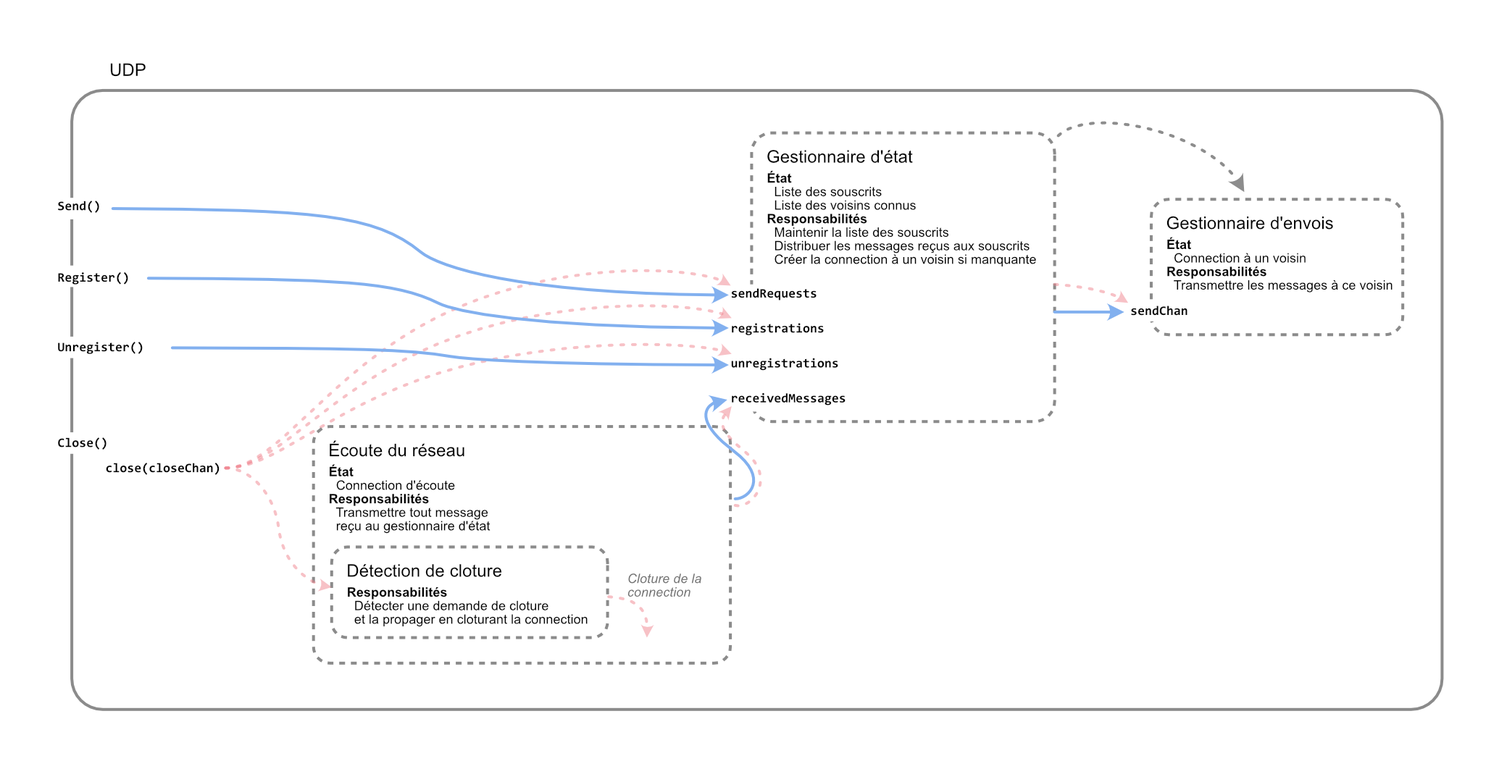
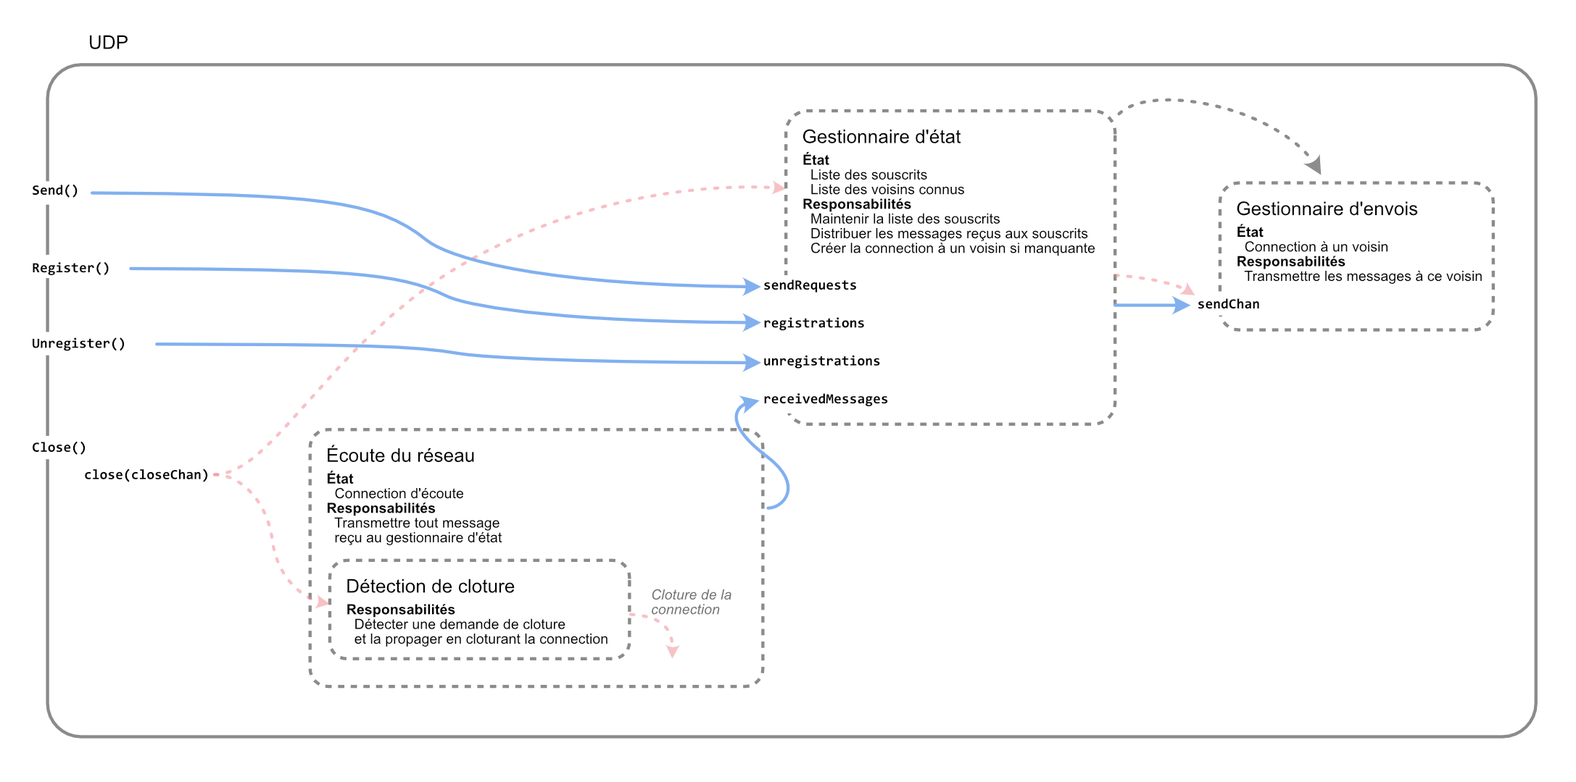
Improve udp design spec

diff --git a/labos/design-specs/1-udp.html b/labos/design-specs/1-udp.html
@@ -58,8 +58,8 @@ packages définis dans <code>internal</code>.</p>
 <ul>
 <li><code>/cmd/</code> contient les main packages, actuellement
 uniquement <code>server</code></li>
-<li><code>/interna/</code> contient les packages utilitaires utilisés
-par l’exécutable <code>server</code>.
+<li><code>/internal/</code> contient les packages utilisés par
+l’exécutable <code>server</code>.
 <ul>
 <li><code>/internal/transport/</code> abstrait la couche réseau en un
 API simple</li>
@@ -74,8 +74,8 @@ variées.</li>
 </ul>
 <h2 id="architecture-en-couches">Architecture en couches</h2>
 <p>Dans un soucis de séparation des préoccupations, ainsi que pour
-faciliter l’extension dans le futur, nous choisissons une achitecture en
-couches, dont il en existe pour l’instant deux : Transport et
+faciliter l’extension dans le futur, nous choisissons une architecture
+en couches, dont il en existe pour l’instant deux : Transport et
 Server.</p>
 <h3 id="transport">Transport</h3>
 <p>La couche <strong>transport</strong> occulte la complexité du réseau
@@ -87,47 +87,99 @@ réseau.</p>
 <h4 id="abstraction">Abstraction</h4>
 <p>L’interface <code>NetworkInterface</code> définit tout objet capable
 d’envoyer et recevoir des octets de la part de processus identifiés par
-une adresse IP. Nous choisissons de travailler avec des octets pour
-rendre cette couche indépendante de son contexte d’utilisation. Ses
-méthodes sont les suivantes : -
-<code>Send(addr Address, payload []byte) error</code>. -
-<code>RegisterHandler(MessageHandler) HandlerId</code> - la réception de
-messages utilise un pattern de souscription : un
-<code>MessageHandler</code> est tout objet offrant une méthode
-<code>HandleNetworkMessage(*Message) (wasHanlded bool)</code> qui doit
-retourner un booléen indiquant si le message reçu a été traité ou non.
-La <code>NetworkInterface</code> est responsable de partager chaque
-message reçu à tous les souscrits à travers cette méthode jusqu’à ce que
-l’un d’eux affirme l’avoir traité. Elle peut supposer que tout message
-n’appartient qu’à un seul souscrit. -
-<code>UnregisterHandler(HandlerId)</code> permet de résilier une
-souscription à l’aide de l’identifiant obtenu à la souscription. -
-<code>Close()</code> ferme toute connexion et goroutine en cours.</p>
+une adresse IP. L’utilisation d’octets pour rendre cette couche
+indépendante de son contexte d’utilisation.</p>
+<p>La <code>NetworkInterface</code> utilise un modèle de souscription
+pour la réception de messages. Elle définit pour cela une interface
+<code>MessageHandler</code> décrivant tout objet offrant une méthode
+<code>HandleNetworkMessage(*Message) (wasHanlded bool)</code> qui
+retourne un booléen ssi le message reçu a été traité. La
+<code>NetworkInterface</code> est alors responsable de partager chaque
+message reçu à tous les souscrits à travers cette méthode, jusqu’à ce
+que l’un d’eux affirme l’avoir traité. Elle peut donc supposer que tout
+message n’appartient qu’à un seul souscrit.</p>
+<p>Les méthodes d’une <code>NetworkInterface</code> sont les suivantes
+:</p>
+<ul>
+<li><code>Send(addr Address, payload []byte) error</code>.</li>
+<li><code>RegisterHandler(MessageHandler) HandlerId</code> pour
+souscrire un <code>MessageHandler</code>.</li>
+<li><code>UnregisterHandler(HandlerId)</code> pour résilier une
+souscription à l’aide de l’identifiant obtenu à la souscription.</li>
+<li><code>Close()</code> pour fermer toute connexion et goroutine en
+cours.</li>
+</ul>
 <p>Nous n’offrons pour l’instant qu’une seul implémentation de cette
 interface, <code>UDP</code>, que nous décrivons dans la suite de cette
 section.</p>
 <h4 id="état-interne">État interne</h4>
 <p>L’état interne d’une instance de <code>UDP</code>, c’est à dire toute
-donnée dont le comportement de l’instance dépend et qui peut changer au
+donnée dont dépend le comportement de l’instance et qui peut changer au
 cours de l’exécution, se réduit aux valeurs suivantes.</p>
 <ul>
-<li>La connection UDP d’écoute de messages reçus.</li>
+<li>La connexion UDP d’écoute de messages reçus.</li>
 <li>La liste des souscrits à la réception des messages.</li>
-<li>La liste des voisins connus et leur connection associée.</li>
+<li>La liste des voisins connus et leur connexion associée.</li>
 </ul>
 <p>Il est important de déterminer ces états puisque, par leur
 variabilité à travers le temps, il est nécessaire d’en prévenir tout
 accès concurrent. Cela est garanti par le choix des goroutines.</p>
 <h4 id="goroutines-principales">Goroutines principales</h4>
-<p>Il existe trois goroutines principales communiquant par channels.</p>
+<p>Nous analysons ici les contraintes techniques auxquelles nous faisons
+face, et les goroutines permettant de les satisfaire.</p>
+<p>Les événements auxquels cette couche doit répondre sont les suivants,
+associés aux états auxquels elles doivent avoir accès</p>
+<ul>
+<li>Réception de message - accès à la liste des souscrits.</li>
+<li>Demande de souscription ou résiliation aux réceptions - modification
+de la liste des souscrits</li>
+<li>Demande d’envoi de message - accès à la liste des voisins connus, et
+modification potentielle si le voisin demandé n’est pas encore
+connu.</li>
+<li>Demande de clôture de l’interface réseau - accès à la liste des
+voisins connus et leur connexion associée, ainsi que la connexion
+d’écoute de messages reçus.</li>
+</ul>
+<p>Étant donné qu’aucune paire de ces événements ne doit pouvoir être
+exécutée en parallèle, nous optons pour la solution simple de regrouper
+leur gestion en une seule goroutine, <code>handleState</code>. Ainsi,
+tous les événements seront traités séquentiellement, évitant donc tout
+risque d’accès concurrent aux variables d’état. Afin d’éviter toute
+erreur lors de l’implémentation, ces variables d’état seront des
+variables locales à la goroutine, et non des attributs de la struct
+<code>UDP</code>.</p>
+<p>La gestion de la clôture de l’interface réseau se fait à l’aide d’une
+unique channel, <code>closeChan</code>, qui sera clôturée au moment
+d’une demande de clôture. Elle pourra ainsi être surveillée par toutes
+les goroutines pour détecter leur nécessité de s’interrompre.</p>
+<p>Une seconde goroutine, <code>listenIncomingMessages</code>, est
+responsable d’écouter les messages reçus sur UDP, et les transmettre à
+<code>handleState</code> pour envoi aux souscrits. Celle-ci génère une
+petite goroutine écoutant simplement <code>closeChan</code> et clôturant
+la connexion UDP d’écoute, permettant de notifier la goroutine
+principale en faisant échouer l’écoute.</p>
+<p>Enfin, afin d’éviter de recréer une connexion au même voisin à chaque
+envoi, la goroutine <code>handleState</code> crée une goroutine pour
+chaque voisin auquel une demande d’envoi a été faite. Cette dernière est
+responsable de la connexion avec ce voisin, et une channel créée et
+maintenue par <code>handleState</code> lui est fournie. Cette channel
+sera utilisée par <code>handleState</code> pour informer la goroutine du
+message à envoyer, puis clôturée pour indiquer la fin de programme.</p>
+<p><img src="/labos/imgs/1-udp.png"/></p>
+<details>
+<summary>
+Pour le détail des goroutines et leurs moyens de communication…
+</summary>
+<p>Il existe donc trois goroutines principales communiquant par
+channels.</p>
 <ul>
 <li><code>handleSends</code> est responsable d’envoyer des messages à
-une connection donnée. Une nouvelle est donc créée pour chaque nouvelle
-connection. Elles réagissent aux événements suivants :
+une connexion donnée. Une nouvelle est donc créée pour chaque nouvelle
+connexion. Elles réagissent aux événements suivants :
 <ul>
-<li>Demandes d’envoi sur la connection correspondante (reçues sur
+<li>Demandes d’envoi sur la connexion correspondante (reçues sur
 <code>sendChan chan []byte</code>).</li>
-<li>Cloture de la channel <code>sendChan</code> comme un signal de fin
+<li>Clôture de la channel <code>sendChan</code> comme un signal de fin
 d’exécution de la goroutine.</li>
 </ul></li>
 <li><code>handleState</code> est la goroutine principale et maintient la
@@ -141,72 +193,27 @@ transmet la demande.</li>
 <li>Demande de souscription d’un handler (reçues sur
 <code>registrations chan struct{HandlerId, MessageHandler}</code>, où
 <code>HandlerId</code> est un alias d’<code>uint32</code> et
-<code>MessageHandler</code> est tel que défini ci-dessus).</li>
+<code>MessageHandler</code> est tel que défini plus tôt).</li>
 <li>Demande de résiliation d’un handler (reçues sur
 <code>unregistrations chan HandlerId</code>)</li>
 <li>Notification de réception de message (reçues sur
 <code>receivedMessages chan Message</code>). Transmet alors le message
 reçu aux handlers souscrits.</li>
-<li>Demande de fin d’éxécution de la goroutine (reçue par la cloture
-d’une channel <code>closeChan</code>). Transmet alors la cloture à
-toutes les goroutines <code>handleSends</code> en cloturant leur channel
+<li>Demande de fin d’exécution de la goroutine (reçue par la clôture
+d’une channel <code>closeChan</code>). Transmet alors la clôture à
+toutes les goroutines <code>handleSends</code> en clôturant leur channel
 <code>sendChan</code>.</li>
 </ul></li>
 <li><code>listenIncomingMessages</code> est responsable de la réception
-de messages. Elle réagit aux événemenst suivants :
+de messages. Elle réagit aux événements suivants :
 <ul>
-<li>Réception de messages par la connection UDP, qu’elle transmet
-ensuite à <code>handleState</code> par la channel
-<code>sendRequests</code></li>
-<li>Cloture de la channel <code>closeChan</code> pour cloturer la
-connection UDP et donc la réception de messages.</li>
+<li>Réception de messages par la connexion UDP, qu’elle transmet ensuite
+à <code>handleState</code> par la channel
+<code>receivedMessages</code></li>
+<li>Clôture de la channel <code>closeChan</code> pour clôturer la
+connexion UDP et donc la réception de messages.</li>
 </ul></li>
 </ul>
-<details>
-<summary>
-Analyse des contraintes techniques justifiant l’architecture proposée.
-</summary>
-<p>Nous analysons ici les contraintes techniques auxquelles nous faisons
-face, afin de justifier l’architecture proposée.</p>
-<p>Les événements auxquels cette couche doit répondre sont les suivants,
-associés aux états auxquels elles doivent avoir accès</p>
-<ul>
-<li>Réception de message - accès à la liste des souscrits.</li>
-<li>Demande de souscription ou résiliation aux réceptions - modification
-de la liste des souscrits</li>
-<li>Demande d’envoi de message - accès à la liste des voisins connus, et
-modification potentielle si le voisin demandé n’est pas encore
-connu.</li>
-<li>Demande de cloture de l’interface réseau - accès à la liste des
-voisins connus et leur connection associée, ainsi que la connection
-d’écoute de messages reçus.</li>
-</ul>
-<p>Étant donné qu’aucune paire de ces événements ne doit pouvoir être
-exécutée en parallèle, nous optons pour la solution simple de regrouper
-leur gestion en une seule goroutine, <code>handleState</code>. Ainsi,
-tous les événements seront traités séquentiellement, évitant donc tout
-risque d’accès concurrent aux variables d’état. Afin d’éviter toute
-erreur lors de l’implémentation, ces variables d’état seront des
-variables locales à la goroutine, et non des attributs de la struct
-<code>UDP</code>.</p>
-<p>La gestion de la cloture de l’interface réseau se fera à l’aide d’une
-unique channel, <code>closeChan</code> qui sera cloturée au moment d’une
-demande de cloture. Elle pourra ainsi être surveillée par toutes les
-goroutines pour détecter leur nécessité de s’interrompre.</p>
-<p>Une seconde goroutine, <code>listenIncomingMessages</code>, est
-responsable d’écouter les messages reçus sur UDP, et les transmettre à
-<code>handleState</code> pour envoi aux souscrits. Celle-ci génère une
-petite goroutine écoutant simplement <code>closeChan</code> et cloturant
-la connection UDP d’écoute, permettant de notifier la goroutine
-principale en faisant échouer l’écoute.</p>
-<p>Enfin, afin d’éviter de recréer une connection au même voisin à
-chaque envoi, la goroutine <code>handleState</code> crée une goroutine
-pour chaque voisin auquel une demande d’envoi a été faite. Cette
-dernière est responsable de la connection avec ce voisin, et une channel
-créée et maintenue par <code>handleState</code> lui est fournie. Cette
-channel sera utilisée par <code>handleState</code> pour informer la
-goroutine du message à envoyer.</p>
-<p><img src="./imgs/1-udp.svg"/></p>
 </details>
 <h3 id="serveur">Serveur</h3>
 <p>Le serveur est responsable uniquement de l’écoute d’entrée sur stdin,

diff --git a/index.html b/index.html
@@ -180,7 +180,7 @@
     
     <hgroup>
       <h2><i class="fa-solid fa-flask"></i> Laboratoires</h2>
-      <h3>La deadline de chaque labo est donnée dans son énoncé.</h3>
+      <h3>À rendre 1 min avant le début de la séance destinée au labo suivant.</h3>
     </hgroup>
 
     <p><a href="/labos/labos.html">Quatre labos</a> se succèderont tout au long du semestre dans le but de développer ChatsApp, une application de messagerie instantanée de groupe distribuée.</p>

diff --git a/labos/design-specs/1-udp.md b/labos/design-specs/1-udp.md
@@ -10,7 +10,7 @@ back: "/labos/1-request-reply.html"
 Respectueusement des conventions en Go, la structure du projet se divise en un package `cmd` ne faisant qu'utiliser les packages définis dans `internal`.
 
 - `/cmd/` contient les main packages, actuellement uniquement `server`
-- `/interna/` contient les packages utilitaires utilisés par l'exécutable `server`.
+- `/internal/` contient les packages utilisés par l'exécutable `server`.
   - `/internal/transport/` abstrait la couche réseau en un API simple
   - `/internal/server/` est responsable de la partie applicative, indépendante du réseau -- écoute d'entrées sur stdin et affichage des messages reçus.
   - `/internal/logging/` offre une structure simplifiant la création de logs.
@@ -18,7 +18,7 @@ Respectueusement des conventions en Go, la structure du projet se divise en un p
 
 ## Architecture en couches
 
-Dans un soucis de séparation des préoccupations, ainsi que pour faciliter l'extension dans le futur, nous choisissons une achitecture en couches, dont il en existe pour l'instant deux : Transport et Server.
+Dans un soucis de séparation des préoccupations, ainsi que pour faciliter l'extension dans le futur, nous choisissons une architecture en couches, dont il en existe pour l'instant deux : Transport et Server.
 
 ### Transport
 
@@ -26,65 +26,70 @@ La couche **transport** occulte la complexité du réseau derrière une abstract
 
 #### Abstraction
 
-L'interface `NetworkInterface` définit tout objet capable d'envoyer et recevoir des octets de la part de processus identifiés par une adresse IP. Nous choisissons de travailler avec des octets pour rendre cette couche indépendante de son contexte d'utilisation. Ses méthodes sont les suivantes :
+L'interface `NetworkInterface` définit tout objet capable d'envoyer et recevoir des octets de la part de processus identifiés par une adresse IP. L'utilisation d'octets pour rendre cette couche indépendante de son contexte d'utilisation.
+
+La `NetworkInterface` utilise un modèle de souscription pour la réception de messages. Elle définit pour cela une interface `MessageHandler` décrivant tout objet offrant une méthode `HandleNetworkMessage(*Message) (wasHanlded bool)` qui retourne un booléen ssi le message reçu a été traité. La `NetworkInterface` est alors responsable de partager chaque message reçu à tous les souscrits à travers cette méthode, jusqu'à ce que l'un d'eux affirme l'avoir traité. Elle peut donc supposer que tout message n'appartient qu'à un seul souscrit.
+
+Les méthodes d'une `NetworkInterface` sont les suivantes :
+
   - `Send(addr Address, payload []byte) error`.
-  - `RegisterHandler(MessageHandler) HandlerId` - la réception de messages utilise un pattern de souscription : un `MessageHandler` est tout objet offrant une méthode `HandleNetworkMessage(*Message) (wasHanlded bool)` qui doit retourner un booléen indiquant si le message reçu a été traité ou non. La `NetworkInterface` est responsable de partager chaque message reçu à tous les souscrits à travers cette méthode jusqu'à ce que l'un d'eux affirme l'avoir traité. Elle peut supposer que tout message n'appartient qu'à un seul souscrit.
-  - `UnregisterHandler(HandlerId)` permet de résilier une souscription à l'aide de l'identifiant obtenu à la souscription.
-  - `Close()` ferme toute connexion et goroutine en cours.
+  - `RegisterHandler(MessageHandler) HandlerId` pour souscrire un `MessageHandler`.
+  - `UnregisterHandler(HandlerId)` pour résilier une souscription à l'aide de l'identifiant obtenu à la souscription.
+  - `Close()` pour fermer toute connexion et goroutine en cours.
 
 Nous n'offrons pour l'instant qu'une seul implémentation de cette interface, `UDP`, que nous décrivons dans la suite de cette section.
 
 #### État interne
 
-L'état interne d'une instance de `UDP`, c'est à dire toute donnée dont le comportement de l'instance dépend et qui peut changer au cours de l'exécution, se réduit aux valeurs suivantes.
+L'état interne d'une instance de `UDP`, c'est à dire toute donnée dont dépend le comportement de l'instance et qui peut changer au cours de l'exécution, se réduit aux valeurs suivantes.
 
-- La connection UDP d'écoute de messages reçus.
+- La connexion UDP d'écoute de messages reçus.
 - La liste des souscrits à la réception des messages.
-- La liste des voisins connus et leur connection associée.
+- La liste des voisins connus et leur connexion associée.
 
 Il est important de déterminer ces états puisque, par leur variabilité à travers le temps, il est nécessaire d'en prévenir tout accès concurrent. Cela est garanti par le choix des goroutines.
 
 #### Goroutines principales
 
-Il existe trois goroutines principales communiquant par channels.
-
-- `handleSends` est responsable d'envoyer des messages à une connection donnée. Une nouvelle est donc créée pour chaque nouvelle connection. Elles réagissent aux événements suivants :
-  - Demandes d'envoi sur la connection correspondante (reçues sur `sendChan chan []byte`).
-  - Cloture de la channel `sendChan` comme un signal de fin d'exécution de la goroutine.
-- `handleState` est la goroutine principale et maintient la liste des souscrits et des voisins connus. Elle réagit aux événements suivants :
-  - Demande d'envoi de bytes à un voisin donné (reçues sur `sendRequests chan struct{Address, []byte}`). Crée alors une instance de `handleSends` associée à ce voisin, et lui transmet la demande.
-  - Demande de souscription d'un handler (reçues sur `registrations chan struct{HandlerId, MessageHandler}`, où `HandlerId` est un alias d'`uint32` et `MessageHandler` est tel que défini ci-dessus).
-  - Demande de résiliation d'un handler (reçues sur `unregistrations chan HandlerId`)
-  - Notification de réception de message (reçues sur `receivedMessages chan Message`). Transmet alors le message reçu aux handlers souscrits.
-  - Demande de fin d'éxécution de la goroutine (reçue par la cloture d'une channel `closeChan`). Transmet alors la cloture à toutes les goroutines `handleSends` en cloturant leur channel `sendChan`.
-- `listenIncomingMessages` est responsable de la réception de messages. Elle réagit aux événemenst suivants :
-  - Réception de messages par la connection UDP, qu'elle transmet ensuite à `handleState` par la channel `sendRequests`
-  - Cloture de la channel `closeChan` pour cloturer la connection UDP et donc la réception de messages.
-
-<details>
-
-<summary>
-Analyse des contraintes techniques justifiant l'architecture proposée.
-</summary>
-
-Nous analysons ici les contraintes techniques auxquelles nous faisons face, afin de justifier l'architecture proposée.
+Nous analysons ici les contraintes techniques auxquelles nous faisons face, et les goroutines permettant de les satisfaire.
 
 Les événements auxquels cette couche doit répondre sont les suivants, associés aux états auxquels elles doivent avoir accès
 
 - Réception de message - accès à la liste des souscrits.
 - Demande de souscription ou résiliation aux réceptions - modification de la liste des souscrits
 - Demande d'envoi de message - accès à la liste des voisins connus, et modification potentielle si le voisin demandé n'est pas encore connu.
-- Demande de cloture de l'interface réseau - accès à la liste des voisins connus et leur connection associée, ainsi que la connection d'écoute de messages reçus.
+- Demande de clôture de l'interface réseau - accès à la liste des voisins connus et leur connexion associée, ainsi que la connexion d'écoute de messages reçus.
 
 Étant donné qu'aucune paire de ces événements ne doit pouvoir être exécutée en parallèle, nous optons pour la solution simple de regrouper leur gestion en une seule goroutine, `handleState`. Ainsi, tous les événements seront traités séquentiellement, évitant donc tout risque d'accès concurrent aux variables d'état. Afin d'éviter toute erreur lors de l'implémentation, ces variables d'état seront des variables locales à la goroutine, et non des attributs de la struct `UDP`.
 
-La gestion de la cloture de l'interface réseau se fera à l'aide d'une unique channel, `closeChan` qui sera cloturée au moment d'une demande de cloture. Elle pourra ainsi être surveillée par toutes les goroutines pour détecter leur nécessité de s'interrompre.
+La gestion de la clôture de l'interface réseau se fait à l'aide d'une unique channel, `closeChan`, qui sera clôturée au moment d'une demande de clôture. Elle pourra ainsi être surveillée par toutes les goroutines pour détecter leur nécessité de s'interrompre.
 
-Une seconde goroutine, `listenIncomingMessages`, est responsable d'écouter les messages reçus sur UDP, et les transmettre à `handleState` pour envoi aux souscrits. Celle-ci génère une petite goroutine écoutant simplement `closeChan` et cloturant la connection UDP d'écoute, permettant de notifier la goroutine principale en faisant échouer l'écoute.
+Une seconde goroutine, `listenIncomingMessages`, est responsable d'écouter les messages reçus sur UDP, et les transmettre à `handleState` pour envoi aux souscrits. Celle-ci génère une petite goroutine écoutant simplement `closeChan` et clôturant la connexion UDP d'écoute, permettant de notifier la goroutine principale en faisant échouer l'écoute.
 
-Enfin, afin d'éviter de recréer une connection au même voisin à chaque envoi, la goroutine `handleState` crée une goroutine pour chaque voisin auquel une demande d'envoi a été faite. Cette dernière est responsable de la connection avec ce voisin, et une channel créée et maintenue par `handleState` lui est fournie. Cette channel sera utilisée par `handleState` pour informer la goroutine du message à envoyer.
+Enfin, afin d'éviter de recréer une connexion au même voisin à chaque envoi, la goroutine `handleState` crée une goroutine pour chaque voisin auquel une demande d'envoi a été faite. Cette dernière est responsable de la connexion avec ce voisin, et une channel créée et maintenue par `handleState` lui est fournie. Cette channel sera utilisée par `handleState` pour informer la goroutine du message à envoyer, puis clôturée pour indiquer la fin de programme.
 
-<img src="./imgs/1-udp.svg"/>
+<img src="/labos/imgs/1-udp.png"/>
+
+<details>
+<summary>
+Pour le détail des goroutines et leurs moyens de communication...
+</summary>
+
+Il existe donc trois goroutines principales communiquant par channels.
+
+- `handleSends` est responsable d'envoyer des messages à une connexion donnée. Une nouvelle est donc créée pour chaque nouvelle connexion. Elles réagissent aux événements suivants :
+  - Demandes d'envoi sur la connexion correspondante (reçues sur `sendChan chan []byte`).
+  - Clôture de la channel `sendChan` comme un signal de fin d'exécution de la goroutine.
+- `handleState` est la goroutine principale et maintient la liste des souscrits et des voisins connus. Elle réagit aux événements suivants :
+  - Demande d'envoi de bytes à un voisin donné (reçues sur `sendRequests chan struct{Address, []byte}`). Crée alors une instance de `handleSends` associée à ce voisin, et lui transmet la demande.
+  - Demande de souscription d'un handler (reçues sur `registrations chan struct{HandlerId, MessageHandler}`, où `HandlerId` est un alias d'`uint32` et `MessageHandler` est tel que défini plus tôt).
+  - Demande de résiliation d'un handler (reçues sur `unregistrations chan HandlerId`)
+  - Notification de réception de message (reçues sur `receivedMessages chan Message`). Transmet alors le message reçu aux handlers souscrits.
+  - Demande de fin d'exécution de la goroutine (reçue par la clôture d'une channel `closeChan`). Transmet alors la clôture à toutes les goroutines `handleSends` en clôturant leur channel `sendChan`.
+- `listenIncomingMessages` est responsable de la réception de messages. Elle réagit aux événements suivants :
+  - Réception de messages par la connexion UDP, qu'elle transmet ensuite à `handleState` par la channel `receivedMessages`
+  - Clôture de la channel `closeChan` pour clôturer la connexion UDP et donc la réception de messages.
+
 
 </details>
 
